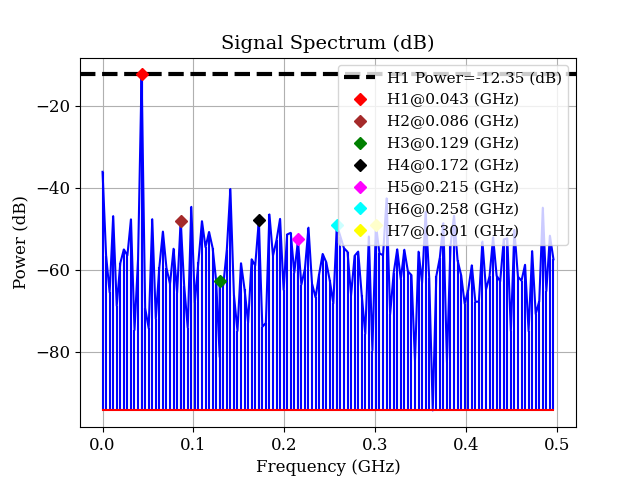
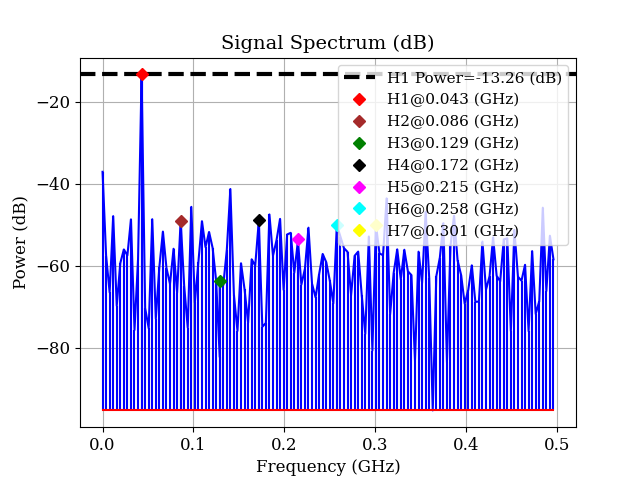
Minor changes to terminal plotting.

diff --git a/src/dycifer/utils.py b/src/dycifer/utils.py
@@ -109,15 +109,17 @@ def plotPrettyFFT(
         argsort(new_freq)
     ]
     if plot_to_terminal and show:
-        tplt.plot(freq, power)
-        tplt.ylim(min(power), max(power) + abs(max(power)) * 1.1)
+        tplt.plot(freq / x_scale, power / y_scale)
+        tplt.ylim(
+            min(power / y_scale), max(power / y_scale) + abs(max(power / y_scale)) * 1.1
+        )
         # plot the marks of the harmonics
         colours = cycle(
             ["red+", "gray+", "green+", "white", "magenta+", "cyan+", "yellow+"]
         )
         # line_styles = cycle(["-.", "--", "-.", "-", "--"])
         labels = [
-            f"H{x}@{f:.3f} {xscale}{xunit}"
+            f"H{x}@{f/x_scale:.3f} {xscale}{xunit}"
             for (x, f) in enumerate([f for f, _ in harmonics], start=1)
         ]
         """
@@ -129,11 +131,13 @@ def plotPrettyFFT(
         for color, harmonic, label in zip(colours, harmonics, labels):
             x = harmonic[0]
             y = harmonic[1]
-            tplt.plot([x], [y], marker="sd", color=color)
-            tplt.text(label, x, y - 0.06 * abs(y), color=color)
+            tplt.plot([x / x_scale], [y / y_scale], marker="sd", color=color)
+            tplt.text(
+                label, x / x_scale, y / y_scale - 0.06 * abs(y / y_scale), color=color
+            )
 
         tplt.grid()
-        tplt.title(title + f"- H1 Power={max(power[1:]):.2f} ({yscale}{yunit})")
+        tplt.title(title + f"- H1 Power={max(power[1:]/y_scale):.2f} ({yscale}{yunit})")
         tplt.xlabel(xlabel)
         tplt.ylabel(ylabel)
         if xlog:

diff --git a/resources/tables_jonny/mixed_signals_adcDynamicEval_cadence_data.tex b/resources/tables_jonny/mixed_signals_adcDynamicEval_cadence_data.tex
@@ -2,6 +2,6 @@
 \toprule
 {} &  Signal Power (dB) &  DC Power (dB) &  SFDR (dB) &   THD (dB) &   SNR (dB) &  SNDR (dB) &      ENOB &   HD2 (dB) &  HD3 (dB) \\
 \midrule
-Dynamic Evaluation Indicators &         -12.345567 &     -36.123599 &  27.841221 & -29.677882 &  20.071483 &  19.620264 &  2.966821 & -35.697812 & -50.34162 \\
+Dynamic Evaluation Indicators &         -13.262461 &     -37.040493 &  27.841221 & -29.677882 &  20.071483 &  19.620264 &  2.966821 & -35.697812 & -50.34162 \\
 \bottomrule
 \end{tabular}

diff --git a/resources/tables_jonny/test_dycifer_cli_mixed_signals_adcDynamicEval_textfile_parsing.tex b/resources/tables_jonny/test_dycifer_cli_mixed_signals_adcDynamicEval_textfile_parsing.tex
@@ -2,6 +2,6 @@
 \toprule
 {} &  Signal Power (dB) &  DC Power (dB) &  SFDR (dB) &   THD (dB) &   SNR (dB) &  SNDR (dB) &      ENOB &   HD2 (dB) &  HD3 (dB) \\
 \midrule
-Dynamic Evaluation Indicators &         -12.344298 &     -36.079746 &   27.81119 & -28.855422 &  20.327157 &  19.756823 &  2.989506 & -34.691559 & -35.70911 \\
+Dynamic Evaluation Indicators &         -13.261192 &      -36.99664 &   27.81119 & -28.855422 &  20.327157 &  19.756823 &  2.989506 & -34.691559 & -35.70911 \\
 \bottomrule
 \end{tabular}

diff --git a/resources/tables_jonny/mixed_signals_adcDynamicEval_cadence_data.md b/resources/tables_jonny/mixed_signals_adcDynamicEval_cadence_data.md
@@ -1,3 +1,3 @@
 |                               |   Signal Power (dB) |   DC Power (dB) |   SFDR (dB) |   THD (dB) |   SNR (dB) |   SNDR (dB) |    ENOB |   HD2 (dB) |   HD3 (dB) |
 |:------------------------------|--------------------:|----------------:|------------:|-----------:|-----------:|------------:|--------:|-----------:|-----------:|
-| Dynamic Evaluation Indicators |            -12.3456 |        -36.1236 |     27.8412 |   -29.6779 |    20.0715 |     19.6203 | 2.96682 |   -35.6978 |   -50.3416 |
+| Dynamic Evaluation Indicators |            -13.2625 |        -37.0405 |     27.8412 |   -29.6779 |    20.0715 |     19.6203 | 2.96682 |   -35.6978 |   -50.3416 |

diff --git a/resources/tables_jonny/test_dycifer_cli_mixed_signals_adcDynamicEval_textfile_parsing.md b/resources/tables_jonny/test_dycifer_cli_mixed_signals_adcDynamicEval_textfile_parsing.md
@@ -1,3 +1,3 @@
 |                               |   Signal Power (dB) |   DC Power (dB) |   SFDR (dB) |   THD (dB) |   SNR (dB) |   SNDR (dB) |    ENOB |   HD2 (dB) |   HD3 (dB) |
 |:------------------------------|--------------------:|----------------:|------------:|-----------:|-----------:|------------:|--------:|-----------:|-----------:|
-| Dynamic Evaluation Indicators |            -12.3443 |        -36.0797 |     27.8112 |   -28.8554 |    20.3272 |     19.7568 | 2.98951 |   -34.6916 |   -35.7091 |
+| Dynamic Evaluation Indicators |            -13.2612 |        -36.9966 |     27.8112 |   -28.8554 |    20.3272 |     19.7568 | 2.98951 |   -34.6916 |   -35.7091 |
